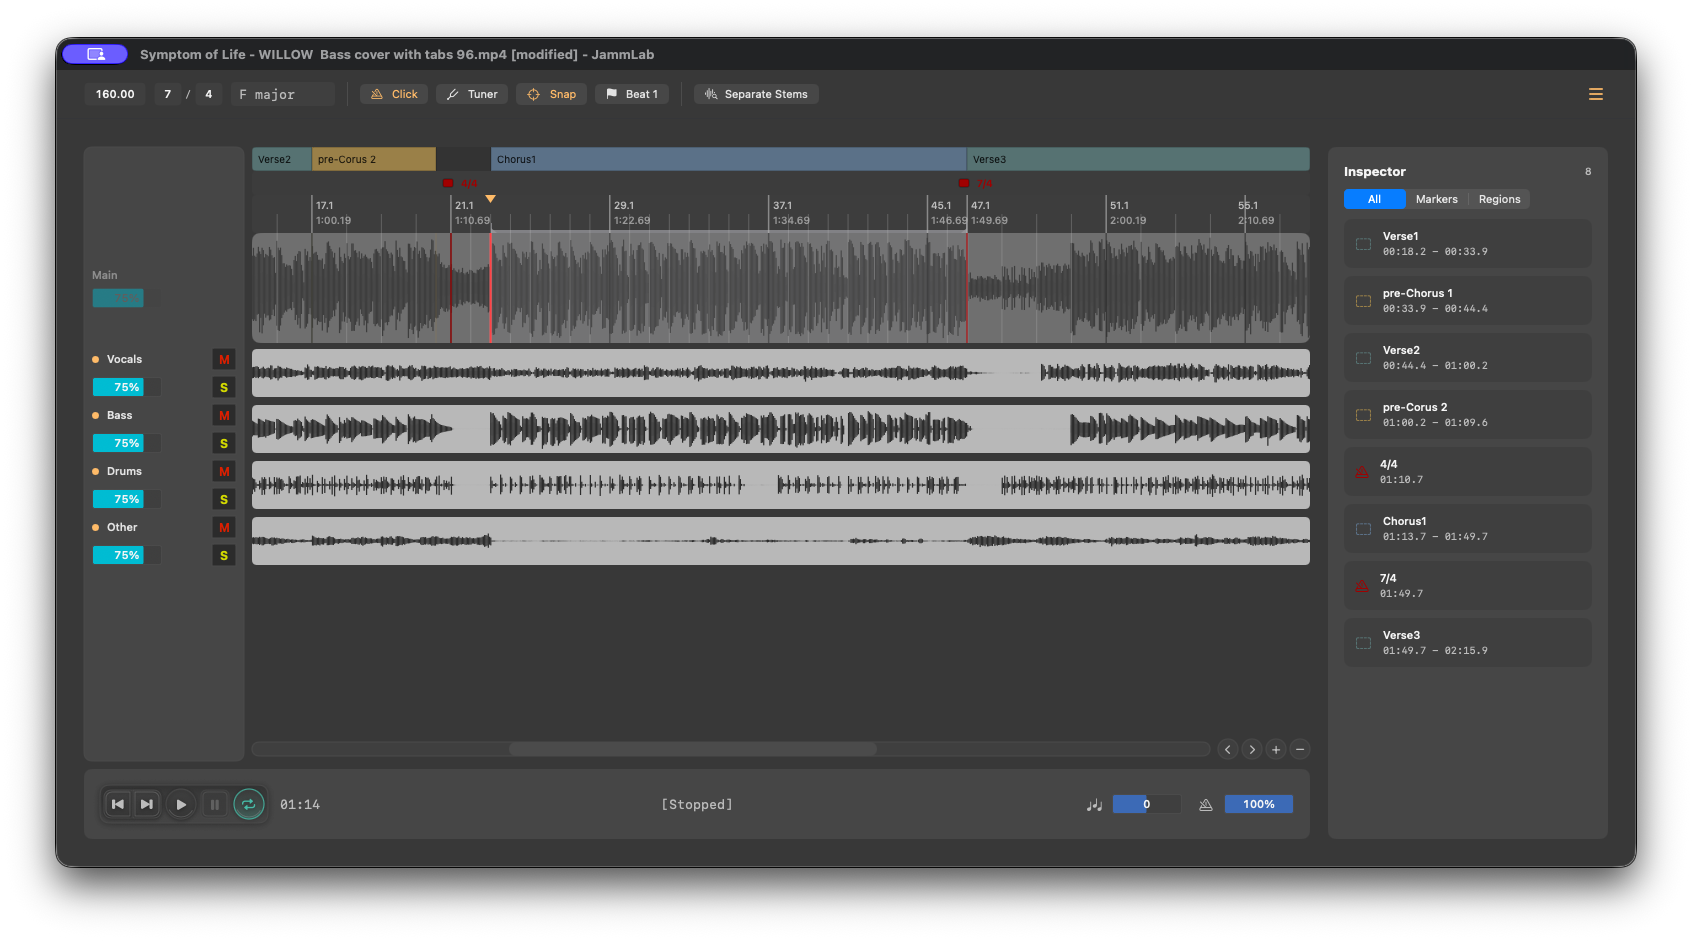
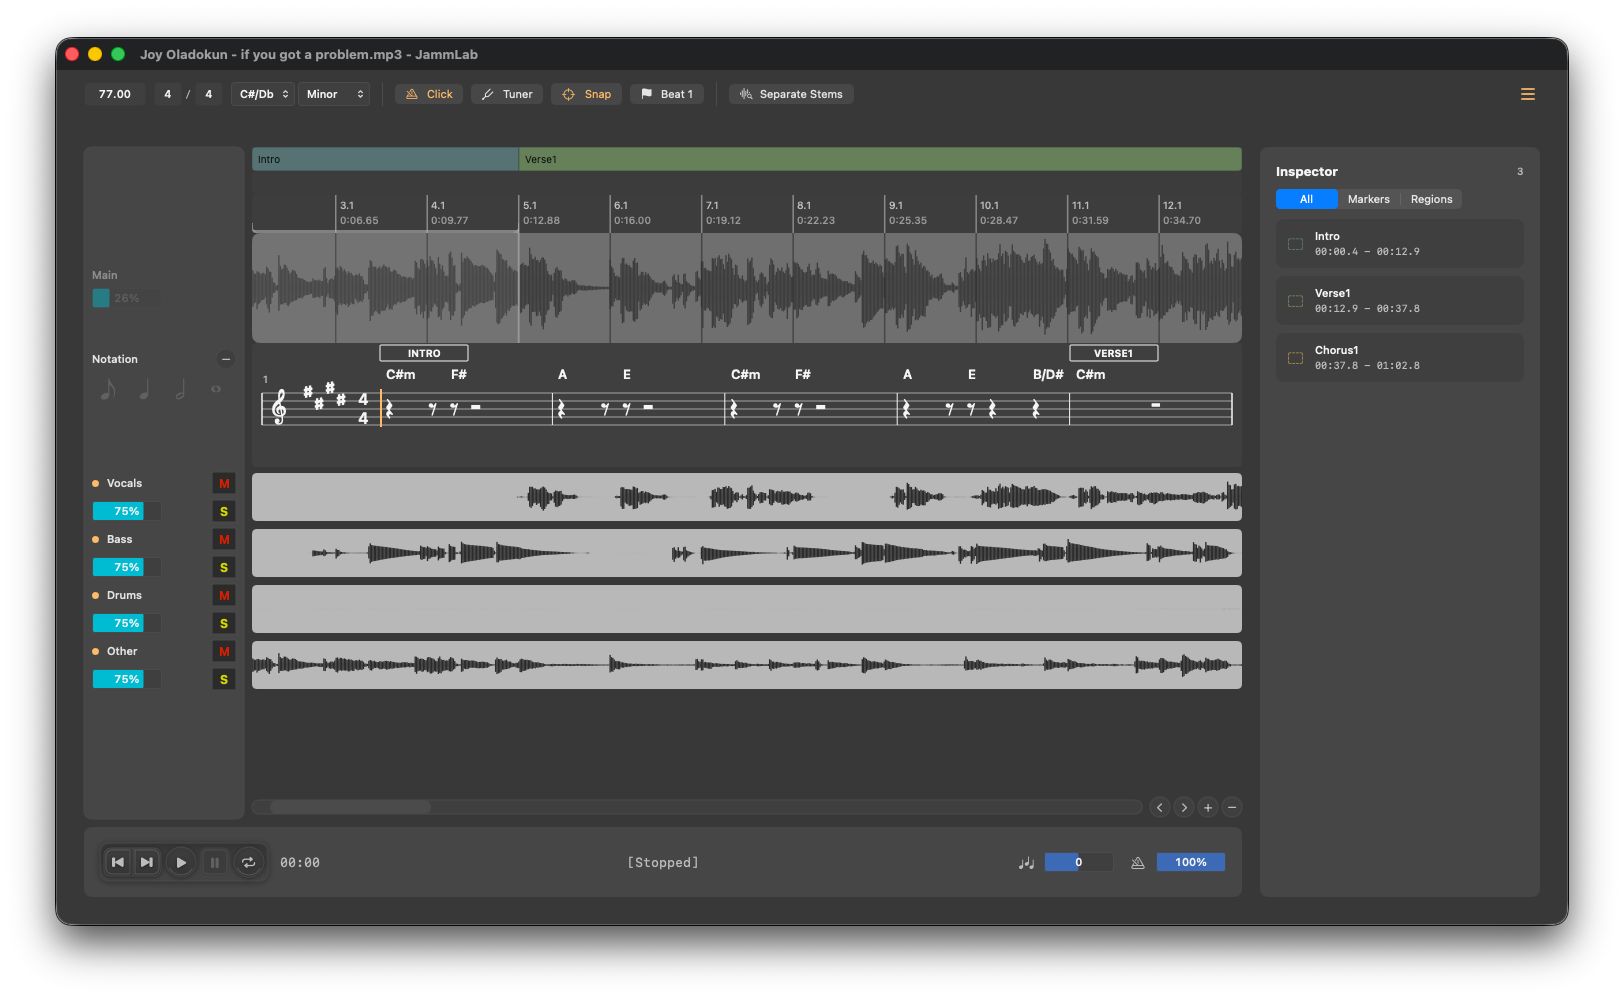
docs: prepare changelog for v1.1.0

diff --git a/CHANGELOG.md b/CHANGELOG.md
@@ -8,24 +8,25 @@ development artifact builds use `vMAJOR.MINOR.PATCH-dev.N`.
 
 ## Unreleased
 
-- Improved timeline and Notation playback responsiveness and reduced idle CPU use in loaded projects.
+## 1.1.0
+
+### New Features
+
+- Added a MusicXML-ready Notation track with synced staff measures, persisted harmony editing, adaptive measure fitting, and editable project key/mode selectors backed by auto-detected tonal metadata.
+- Added a synced Notation window that opens from the View menu or Notation track context menu and shares harmony editing with the main timeline.
+- Added MusicXML export for Notation from the File menu and Notation window, including export metadata, project tempo markings, Region labels, harmony symbols, note types, and split-rest durations.
+- Added Notation measure range selection with Shift-click, Cmd+C/Cmd+V copy and replace-paste for harmony contents, and Esc to clear the selection.
 - Added Notation clicks for moving the playback position marker from measure selections and barlines in both the main track and Notation window.
-- Added Leland glyph duration controls to the Notation window and main Notation track, with 4/5/6/7 shortcuts for eighth, quarter, half, and whole notes.
-- Added selectable Notation rest durations with persisted measure layouts and split-rest MusicXML export.
-- Added MusicXML export metadata, project tempo marking, and boxed bold Region labels.
-- Fixed Notation duration button glyph alignment in the timeline and Notation window.
-- Fixed MusicXML export so harmony offsets are relative to the current notation position and exported notes include type values.
-- Added MusicXML export for Notation from the File menu and Notation window.
-- Added a collapsible Notation track in the main timeline, collapsed by default and saved per project.
-- Changed notation harmony entry so beat slashes are selectable and Cmd+K opens chord input for the selected beat.
-- Added notation measure range selection with Shift-click, Cmd+C/Cmd+V measure copy and replace-paste for harmony contents, and Esc to clear the selection.
-- Improved notation measure range selection so adjacent selected measures draw as one continuous frame.
-- Added boxed Region start labels to Notation in the timeline track and Notation window.
-- Added beat slash notation to Notation measures in the timeline track and Notation window.
-- Added a synced Notation window that opens from the View menu or the Notation track context menu, showing the full chart in a notebook-style layout while sharing harmony editing with the timeline track.
-- Added a MusicXML-ready notation track MVP with synced staff measures, persisted harmony editing, adaptive measure fitting, and editable project key/mode selectors backed by auto-detected tonal metadata.
-- Fixed Notation key and time signature alignment for keys without accidentals and removed gaps between Notation window systems.
-- Fixed key-signature accidentals on the Notation track so sharps and flats render on the correct staff positions.
+
+### Improvements
+
+- Improved timeline and Notation playback responsiveness and reduced idle CPU use in loaded projects.
+
+### Validation
+
+- Swift tests passed: `SKIP_BUNDLED_SEPARATOR_HELPER=1 xcodebuild test -quiet -project JammLab.xcodeproj -scheme JammLab -destination 'platform=macOS,arch=arm64' -derivedDataPath build CODE_SIGN_IDENTITY=- CODE_SIGN_STYLE=Manual DEVELOPMENT_TEAM= PROVISIONING_PROFILE_SPECIFIER= ONLY_ACTIVE_ARCH=YES ARCHS=arm64`.
+- Performance tests passed: `SKIP_BUNDLED_SEPARATOR_HELPER=1 xcodebuild test -quiet -project JammLab.xcodeproj -scheme JammLabPerformance -destination 'platform=macOS,arch=arm64' -derivedDataPath build CODE_SIGN_IDENTITY=- CODE_SIGN_STYLE=Manual DEVELOPMENT_TEAM= PROVISIONING_PROFILE_SPECIFIER= ONLY_ACTIVE_ARCH=YES ARCHS=arm64`.
+- Release metadata check passed: `scripts/derive_release_metadata.sh v1.1.0` returned stable release metadata with app version `1.1.0`.
 
 ## 1.0.1
 
